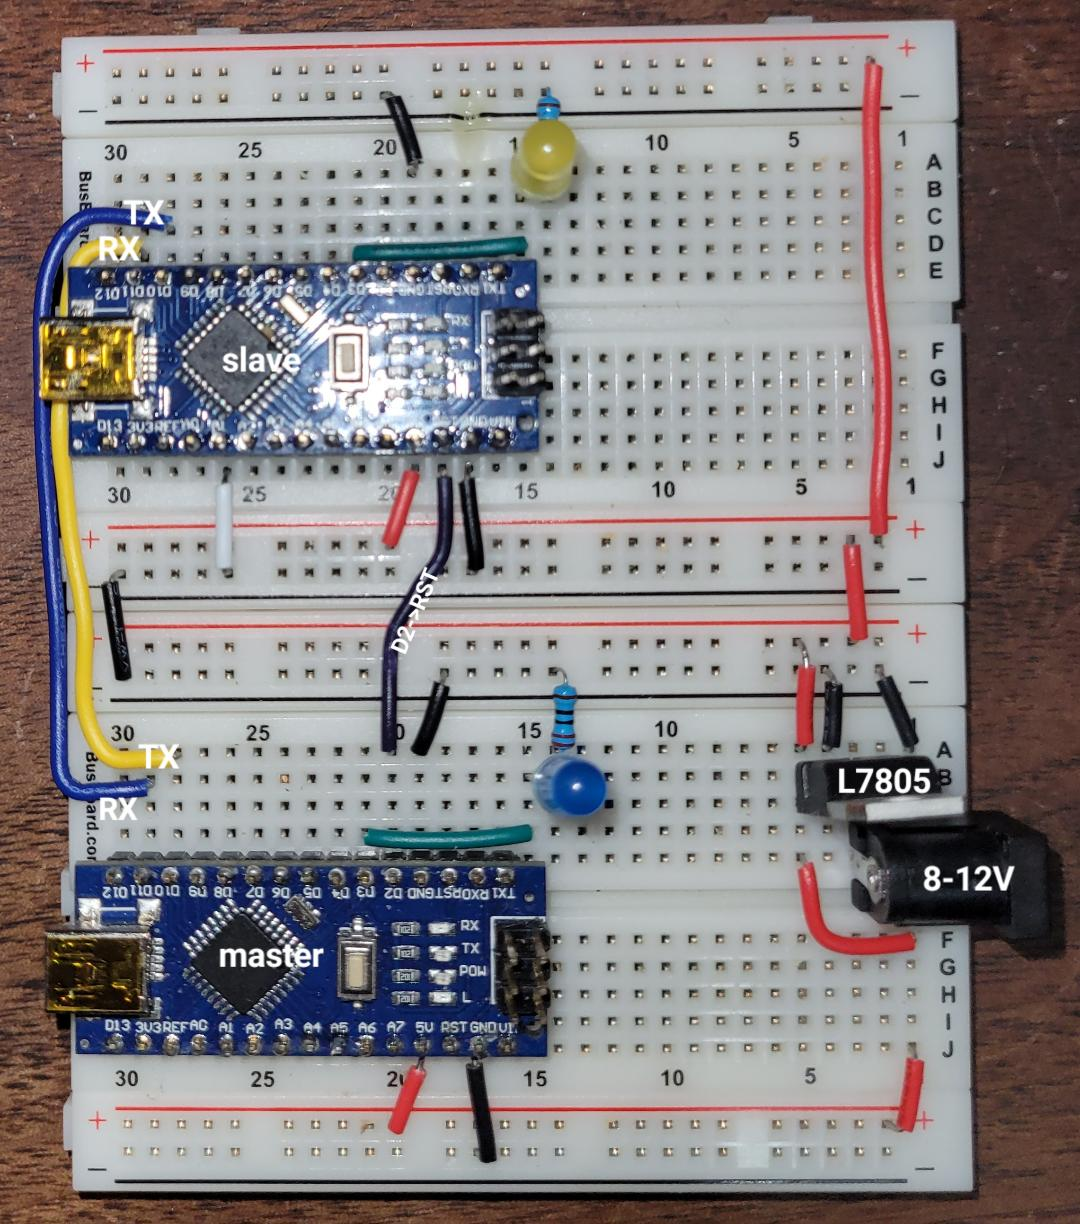
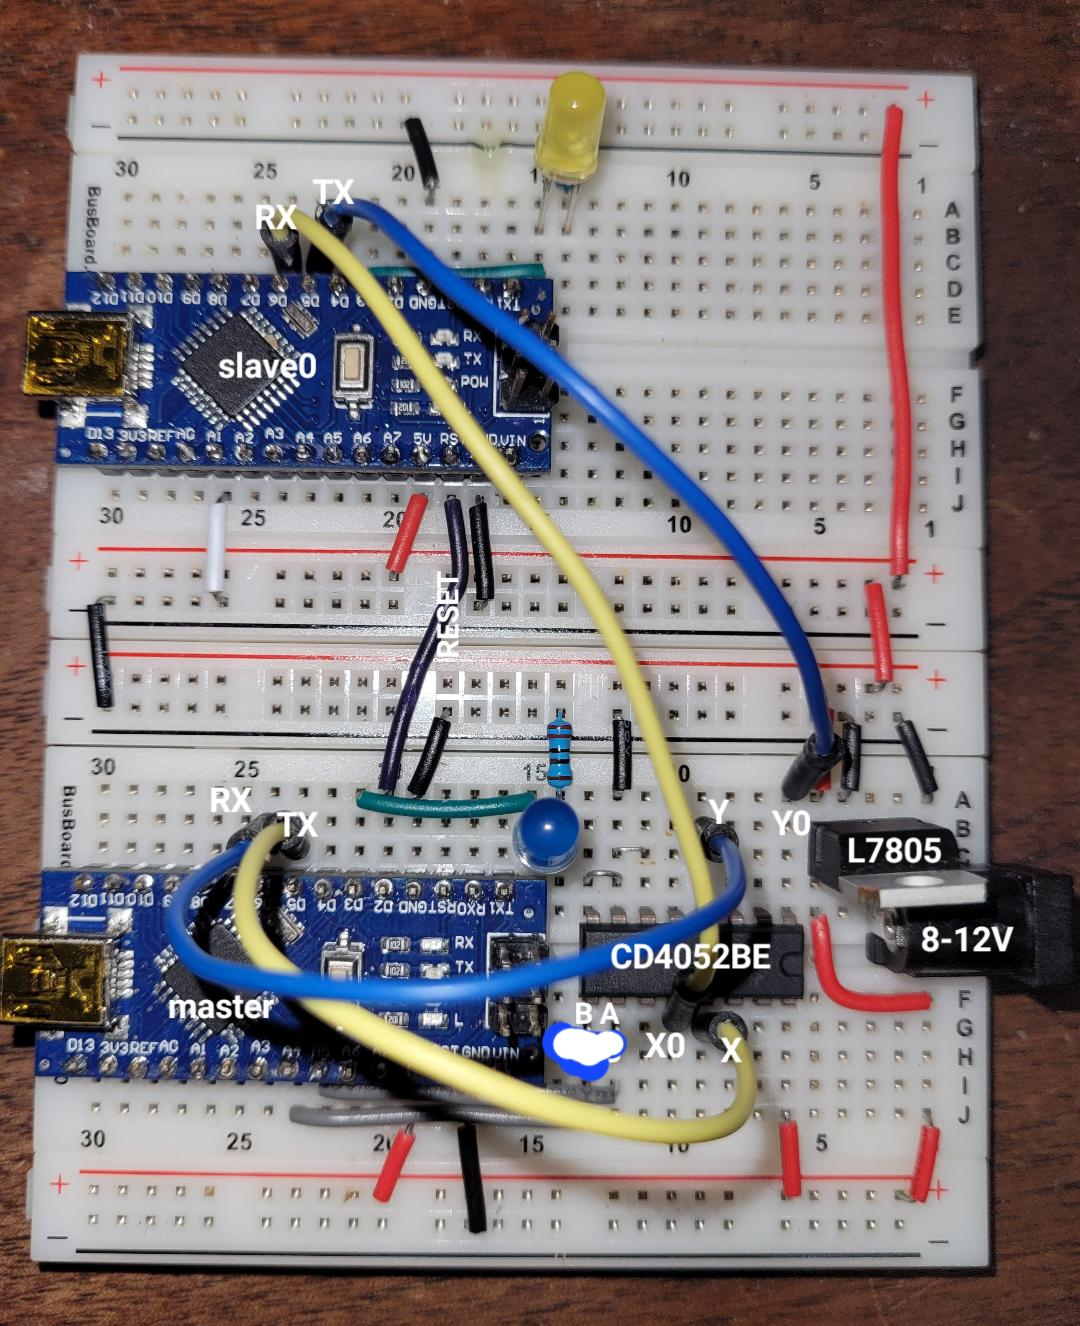
image and doc

diff --git a/README.md b/README.md
@@ -1,4 +1,9 @@
 # echo
-Serial comms between multiple Arduinos
 
+## Serial comms between multiple Arduinos
+
+*Use `SoftwareSerial` library to designate custom serial pins: TX=5, RX=6
+
+*Use CD4052BE multiplexer to allow selection of up to 4 slave devices
+*
 ![breadboard](circuit.jpg)
